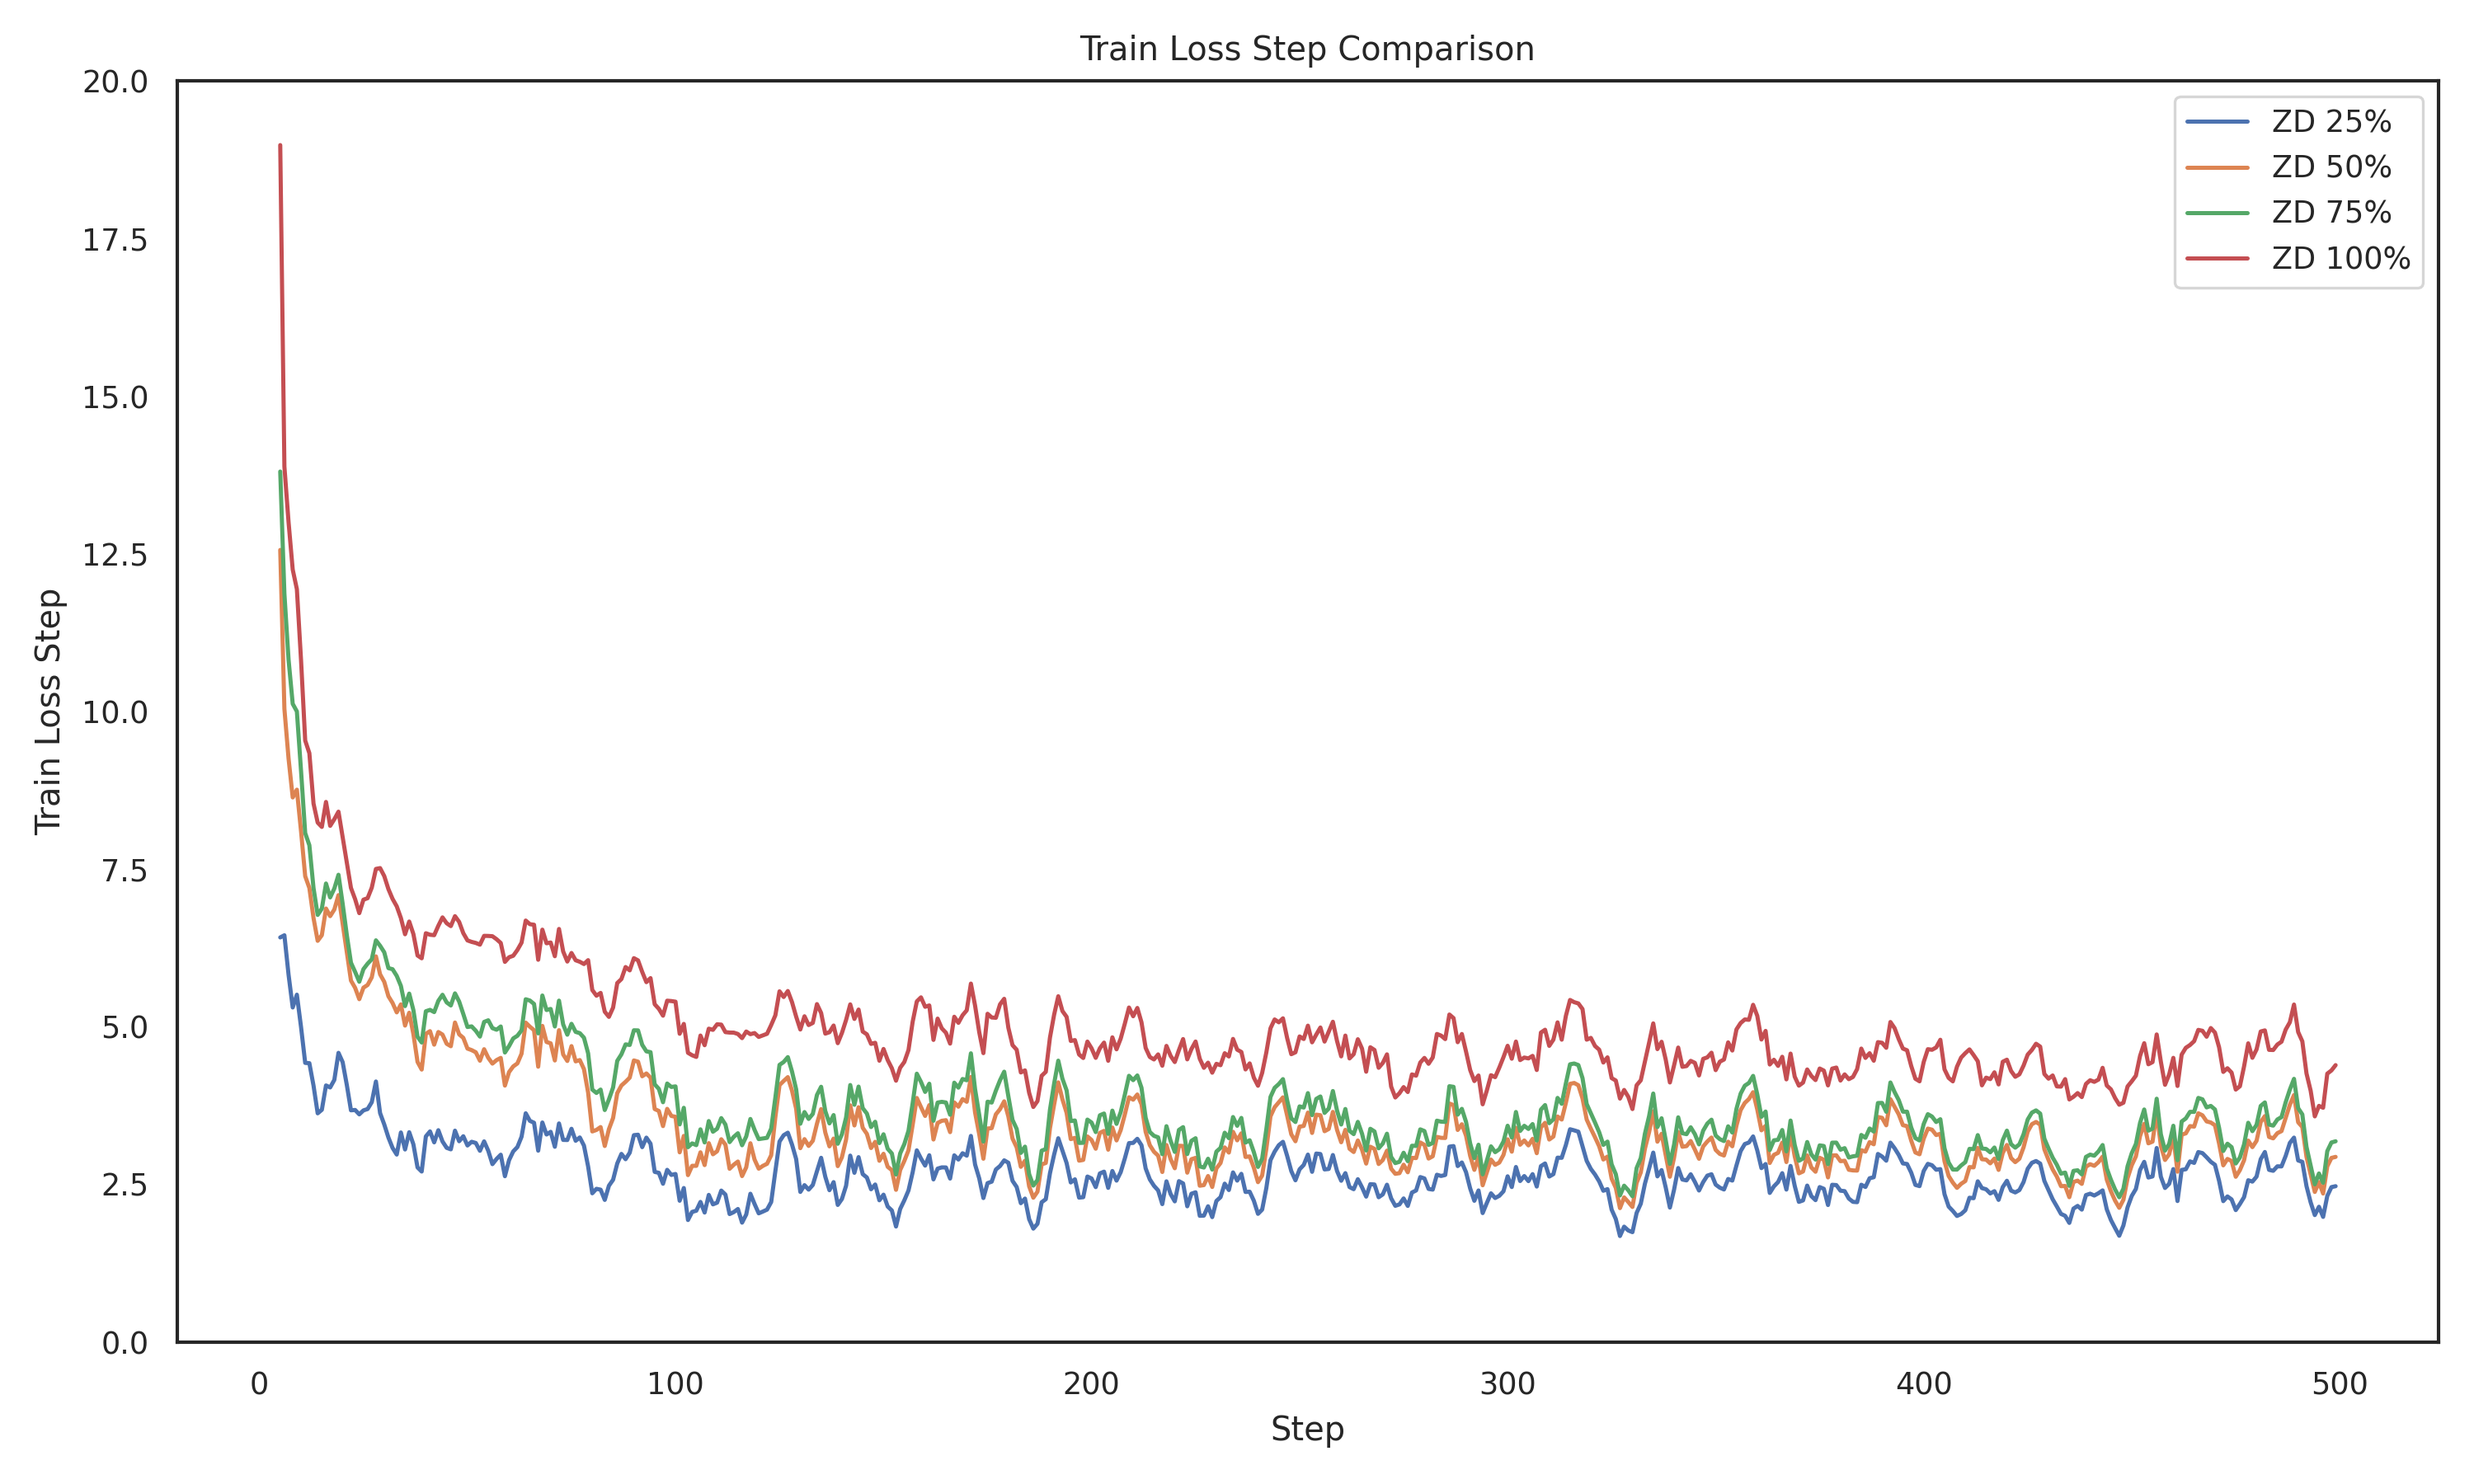
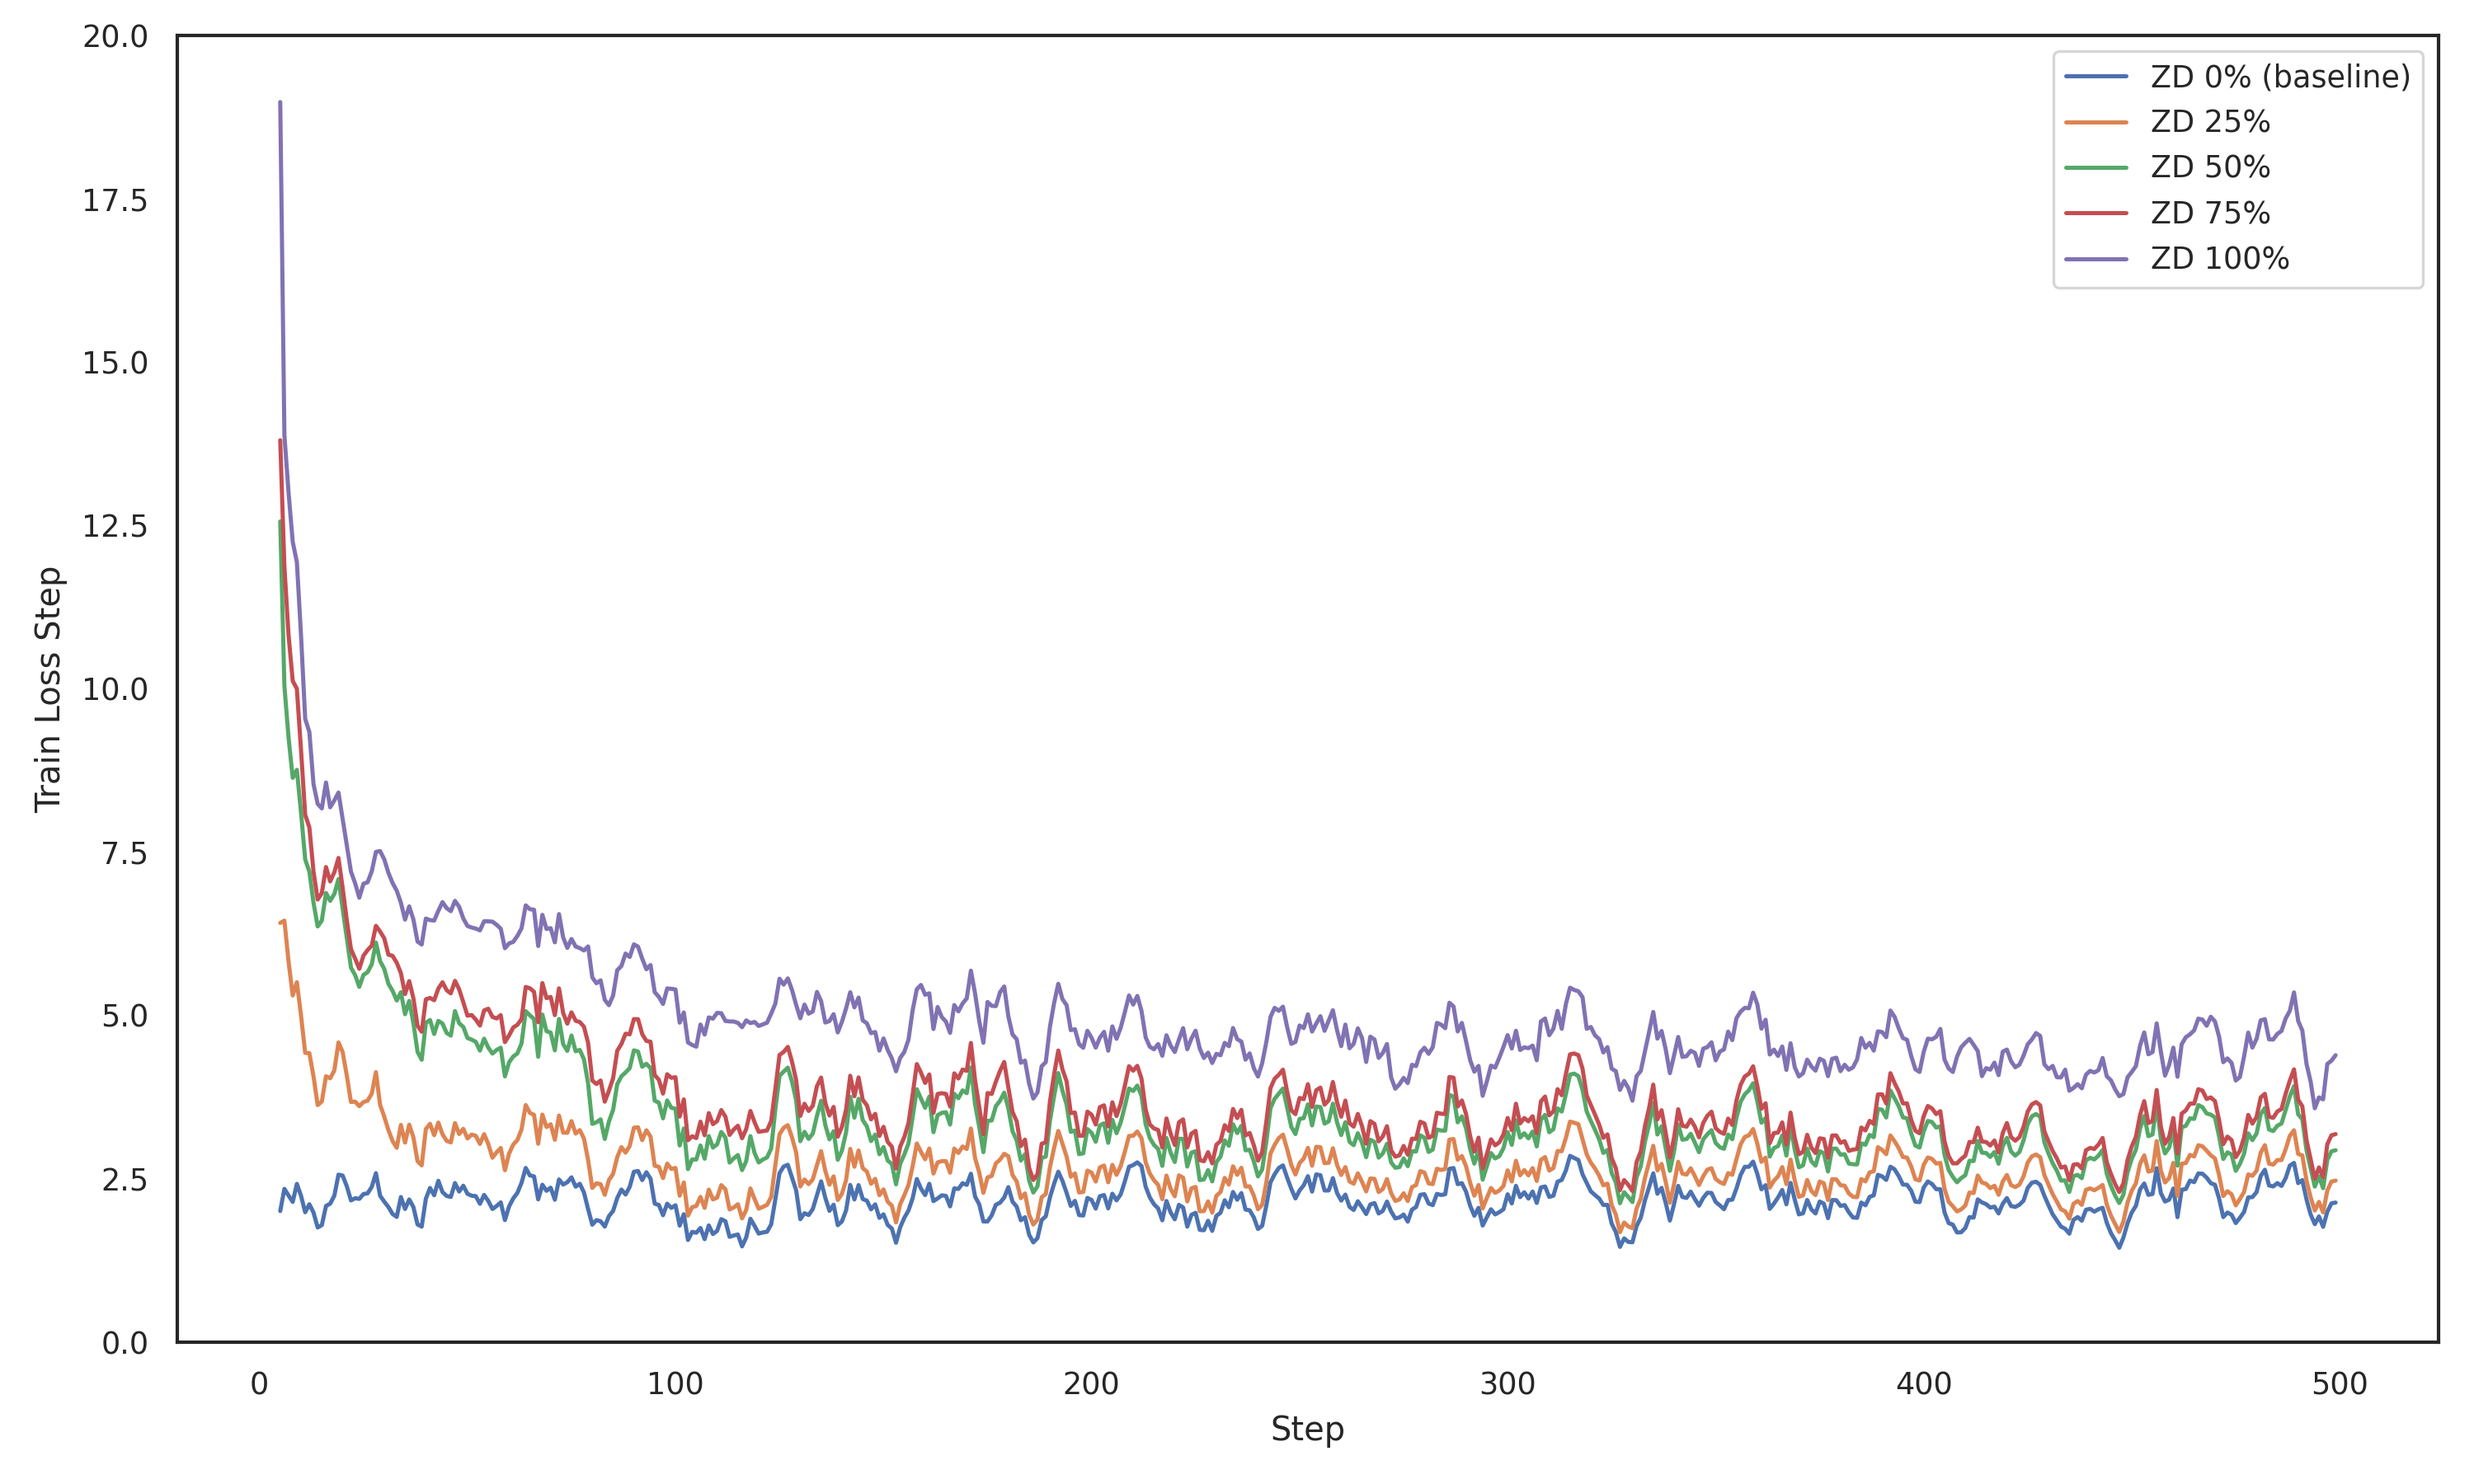
Update plots

diff --git a/src/plots.py b/src/plots.py
@@ -50,10 +50,9 @@ def plot_metric(
     run_names = [run.info.run_name for run in runs]
     label_map = dict(zip(run_names, pretty_run_names))
     new_labels = [label_map.get(label, label) for label in labels]
-    ax.legend(handles=handles, labels=new_labels)
+    ax.legend(handles=handles, labels=new_labels, title="")
 
     ax.set(xlabel="Step", ylabel=metric_name.replace("_", " ").title())
-    ax.set_title(f"{metric_name.replace('_', ' ').title()} Comparison")
     fig.tight_layout()
 
 
@@ -76,13 +75,14 @@ def get_plot(
 
 def render_ZD_top_p_comparision():
     run_names = [
+                "quant_1_58b_impl_OneBit_loss_CrossEntropy_ZD_0",
         "quant_1_58b_impl_OneBit_loss_CrossEntropy_ZD_25",
         "quant_1_58b_impl_OneBit_loss_CrossEntropy_ZD_50",
         "quant_1_58b_impl_OneBit_loss_CrossEntropy_ZD_75",
         "quant_1_58b_impl_OneBit_loss_CrossEntropy_ZD_100",
     ]
 
-    pretty_names = ["ZD 25%", "ZD 50%", "ZD 75%", "ZD 100%"]
+    pretty_names = ["ZD 0% (baseline)", "ZD 25%", "ZD 50%", "ZD 75%", "ZD 100%"]
 
     fig = get_plot(
         run_names, "train_loss_step", pretty_run_names=pretty_names, rolling_mean=5
